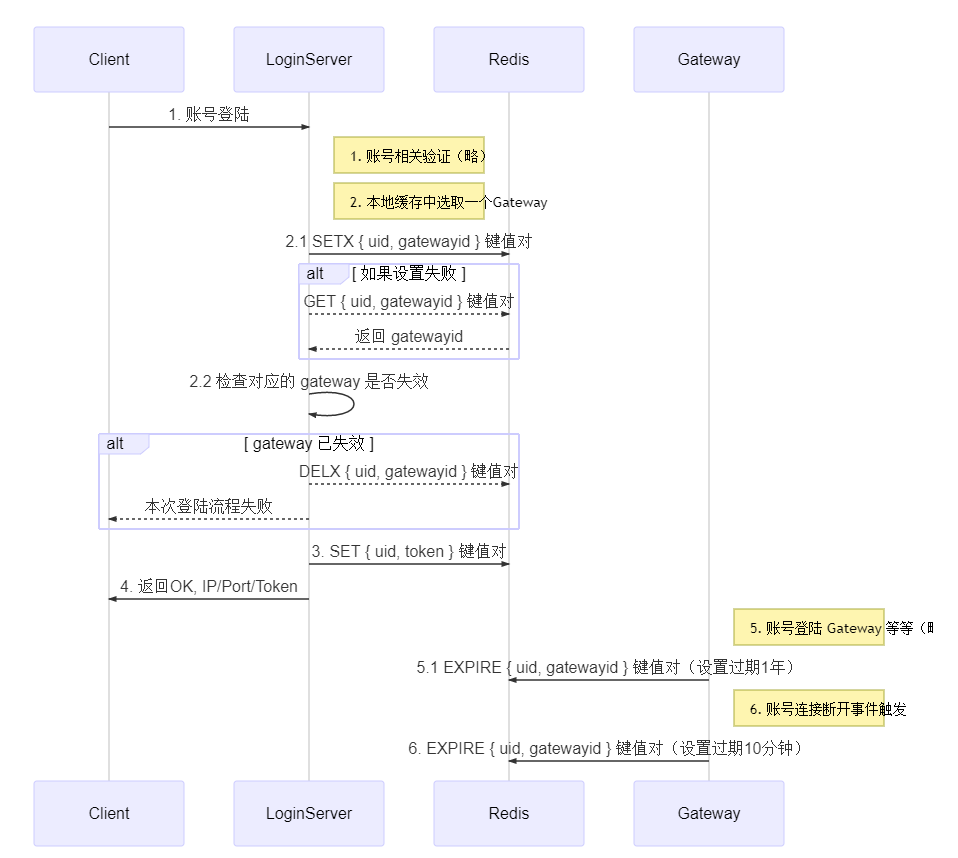
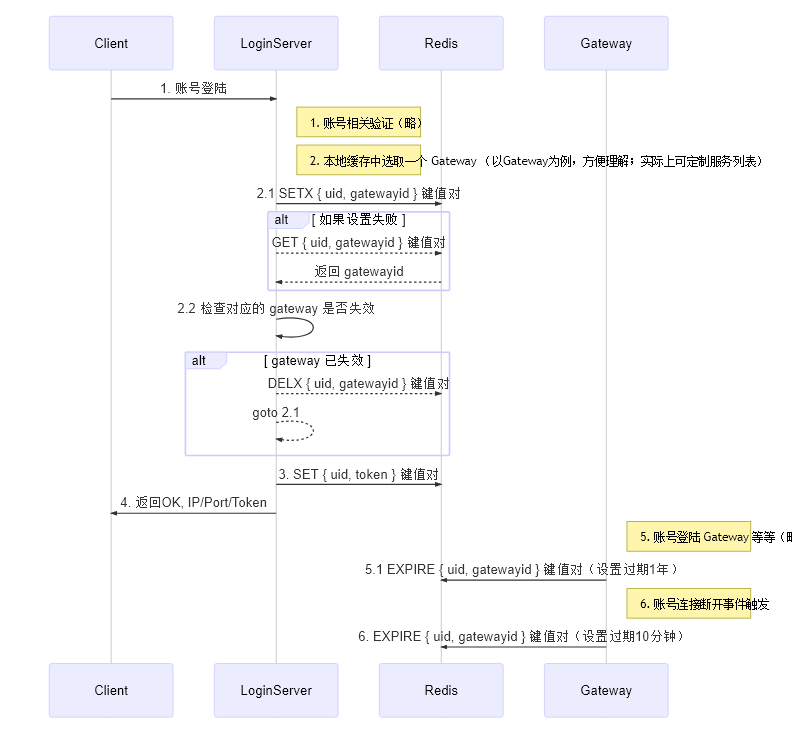
Login 分配服务器资源（部分）

diff --git a/internal/db/redis_atomic.go b/internal/db/redis_atomic.go
@@ -1,0 +1,39 @@
+package db
+
+import (
+	"fmt"
+
+	go_redis_orm "github.com/fananchong/go-redis-orm.v2"
+	"github.com/gomodule/redigo/redis"
+)
+
+// RedisAtomic : 自定义 Redis 原子操作
+type RedisAtomic struct {
+	Cli go_redis_orm.IClient
+}
+
+// SetX : 原子操作，封装 `不管 SETX 有没有设置成功，都重置过期时间为 n`
+//        返回值， 1 设置成功； 0 设置失败
+func (redisatomic *RedisAtomic) SetX(key, value string, expire int) (int, error) {
+	lua := `local r=redis.call('SET',KEYS[1],ARGV[1],'NX');
+redis.call('EXPIRE',KEYS[1],%d);
+if not not r then return 1 else return 0 end`
+	cmd := fmt.Sprintf(lua, expire)
+	reply, err := redisatomic.Cli.Do("eval %s 1 %s %s", cmd, key, value)
+	if err != nil {
+		return -1, err
+	}
+	return redis.Int(reply, nil)
+}
+
+// DelX : 原子操作，封装 `条件删除， if value = "xxx" then del key`
+//        返回值， 1 有删除操作； 0 不需要删除
+func (redisatomic *RedisAtomic) DelX(key, value string) (int, error) {
+	cmd := `local v=redis.call('GET',KEYS[1]);
+if ARGV[1]==v then return redis.call('DEL',KEYS[1]) else return 0 end`
+	reply, err := redisatomic.Cli.Do("eval %s 1 %s %s", cmd, key, value)
+	if err != nil {
+		return -1, err
+	}
+	return redis.Int(reply, nil)
+}

diff --git a/internal/components/login.go b/internal/components/login.go
@@ -12,6 +12,7 @@ type Login struct {
 	verificationFunc common.FuncTypeAccountVerification
 	allocType        []common.NodeType
 	idgen            db.IDGen
+	redisAtomic      db.RedisAtomic
 }
 
 // NewLogin : 实例化登陆模块
@@ -132,5 +133,33 @@ func (login *Login) initRedis() bool {
 	}
 
 	login.idgen.Cli = go_redis_orm.GetDB(login.ctx.Config.DbAccount.Name)
+	login.redisAtomic.Cli = go_redis_orm.GetDB(login.ctx.Config.DbServer.Name)
 	return true
+}
+
+func (login *Login) selectServerList(account string, nodeType []common.NodeType) (addressList []string, portList []int32, ok bool) {
+	dbObj := &db.AccountServers{}
+	for _, v := range nodeType {
+		node := login.ctx.Node.GetNodeOne(v)
+		if node == nil {
+			return
+		}
+		dbObj.TypeList = append(dbObj.TypeList, int32(v))
+		dbObj.AddressList = append(dbObj.AddressList, node.GetIP(common.IPOUTER))
+		dbObj.PortList = append(dbObj.PortList, node.GetPort(int(common.PORTFORCLIENT)))
+	}
+	var data string
+	var err error
+	data, err = dbObj.Marshal()
+	if err != nil {
+		login.ctx.Log.Errorln(err)
+		return
+	}
+	var ret int
+	ret, err = login.redisAtomic.SetX(account, data, 86400)
+	if ret == -1 {
+		// TODO:
+	}
+	ok = true
+	return
 }

diff --git a/internal/components/tcpserver.go b/internal/components/tcpserver.go
@@ -27,14 +27,14 @@ func (server *TCPServer) Start() bool {
 		if !startTCPServer(s, utils.GetIPOuter(server.ctx), utils.GetDefaultServicePort(server.ctx)) {
 			return false
 		}
-		server.ctx.Config.Network.Port[0] = s.GetRealPort()
+		server.ctx.Config.Network.Port[common.PORTFORCLIENT] = s.GetRealPort()
 	}
 	s = server.ctx.ServerForIntranet.(*gotcp.Server)
 	if s.GetSessionType() != nil {
 		if !startTCPServer(s, utils.GetIPInner(server.ctx), utils.GetIntranetListenPort(server.ctx)) {
 			return false
 		}
-		server.ctx.Config.Network.Port[1] = s.GetRealPort()
+		server.ctx.Config.Network.Port[common.PORTFORINTRANET] = s.GetRealPort()
 	}
 	return true
 }

diff --git a/internal/db/account_servers.go b/internal/db/account_servers.go
@@ -1,0 +1,24 @@
+package db
+
+import "encoding/json"
+
+// AccountServers : 账号对应分配的服务资源
+type AccountServers struct {
+	AddressList []string
+	PortList    []int32
+	TypeList    []int32
+}
+
+// Marshal : 序列化
+func (accountservers *AccountServers) Marshal() (string, error) {
+	data, err := json.Marshal(accountservers)
+	if err != nil {
+		return "", err
+	}
+	return string(data), nil
+}
+
+// Unmarshal : 反序列化
+func (accountservers *AccountServers) Unmarshal(data string) error {
+	return json.Unmarshal([]byte(data), accountservers)
+}

diff --git a/common/utils/ip_helper.go b/common/utils/ip_helper.go
@@ -86,10 +86,10 @@ func networkCard2IP(name string) (string, error) {
 
 // GetIntranetListenPort : 获取服务器组内监听端口
 func GetIntranetListenPort(ctx *common.Context) int32 {
-	return ctx.Config.Network.Port[1]
+	return ctx.Config.Network.Port[common.PORTFORINTRANET]
 }
 
 // GetDefaultServicePort : 获取缺省的对外端口
 func GetDefaultServicePort(ctx *common.Context) int32 {
-	return ctx.Config.Network.Port[0]
+	return ctx.Config.Network.Port[common.PORTFORCLIENT]
 }

diff --git a/common/type.go b/common/type.go
@@ -43,3 +43,14 @@ const (
 	// IPOUTER : 类型 1 ，外网 IP
 	IPOUTER
 )
+
+// PortType : PORT 类型
+type PortType int
+
+const (
+	// PORTFORCLIENT : 端口类型（对客户端）
+	PORTFORCLIENT PortType = iota
+
+	// PORTFORINTRANET : 端口类型（对内网）
+	PORTFORINTRANET
+)

diff --git a/doc/assets/login.md b/doc/assets/login.md
@@ -6,7 +6,7 @@ participant Redis
 participant Gateway
 Client->>LoginServer: 1. 账号登陆
 Note right of LoginServer: 1. 账号相关验证（略）
-Note right of LoginServer: 2. 本地缓存中选取一个Gateway
+Note right of LoginServer: 2. 本地缓存中选取一个 Gateway （以Gateway为例，方便理解；实际上可定制服务列表）
 LoginServer->>Redis: 2.1 SETX { uid, gatewayid } 键值对
 alt 如果设置失败
   LoginServer-->>Redis: GET { uid, gatewayid } 键值对
@@ -15,7 +15,7 @@ end
 LoginServer->>LoginServer: 2.2 检查对应的 gateway 是否失效
 alt gateway 已失效
   LoginServer-->>Redis: DELX { uid, gatewayid } 键值对
-  LoginServer-->>Client: 本次登陆流程失败
+  LoginServer-->>LoginServer: goto 2.1
 end
 LoginServer->>Redis: 3. SET { uid, token } 键值对
 LoginServer->>Client: 4. 返回OK, IP/Port/Token
